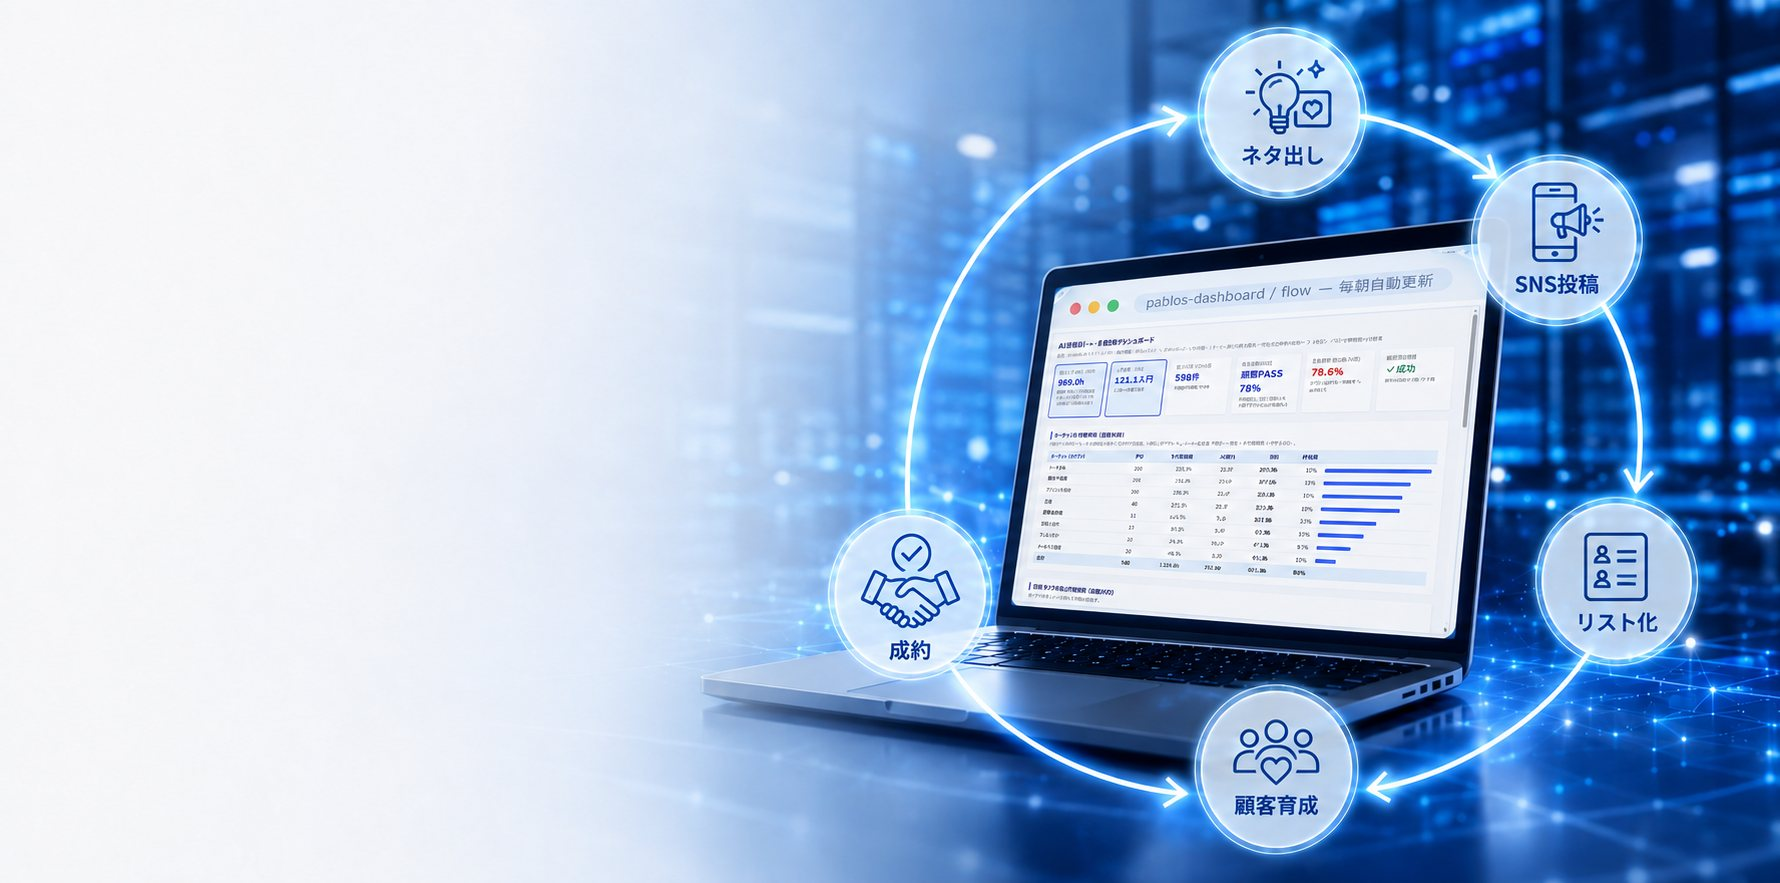
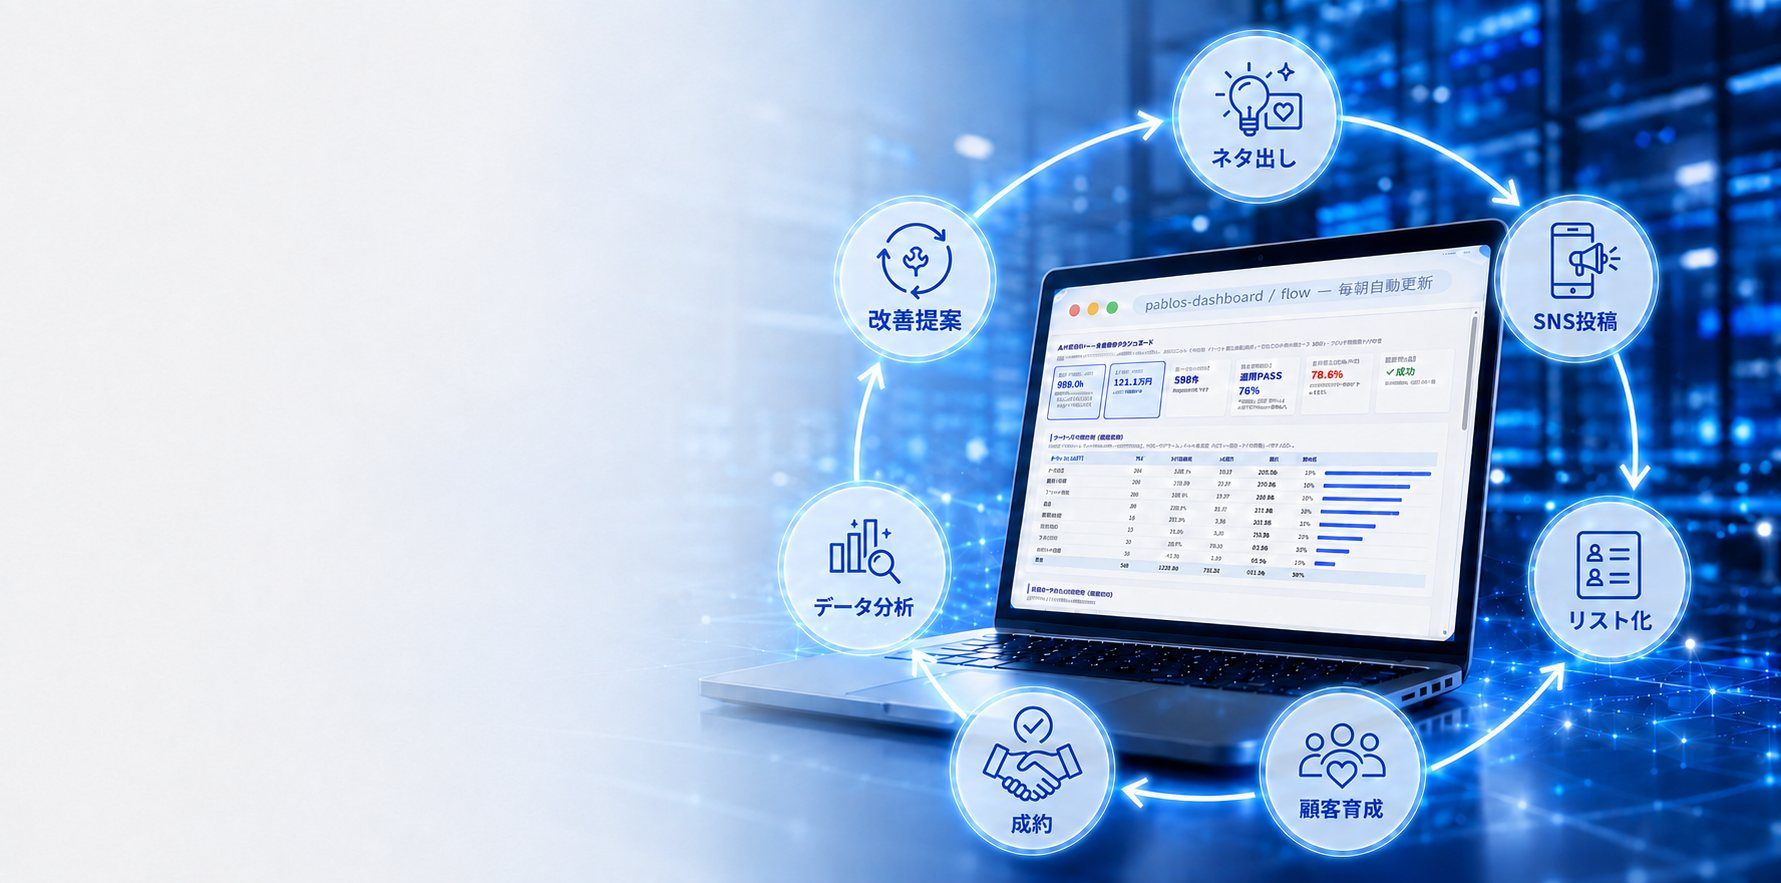
ヒーロー画像を7アイコン版（分析・改善提案入りサイクル）に差し替え、コピーを7ステップ表記に統一

diff --git a/r/a97c30d5f2/index.html b/r/a97c30d5f2/index.html
@@ -248,12 +248,12 @@
       <h1>SNS投稿から成約まで、<br>改善を止めない<span class="accent">ワンストップ運用</span>へ。</h1>
       <p class="lead">AI×SNS発信・リスト化・顧客育成 実装説明会</p>
       <p class="sub">
-        ネタ出し・投稿・リスト化・顧客育成・成約を、AIとの分業で改善し続ける仕組みへ。<br>
-        「ひとりで全部やる」毎日が変わる設計図を、60分でご覧いただけます。
+        ネタ出しから投稿、リスト化、顧客育成、成約、そして分析・改善まで。<br>
+        7つの仕事をAIとの分業で回し続ける設計図を、60分でご覧いただけます。
       </p>
-      <img class="hero-mimg" src="assets/hero.jpg" alt="ネタ出しからSNS投稿・リスト化・顧客育成・成約までのワンストップ運用サイクル">
+      <img class="hero-mimg" src="assets/hero.jpg" alt="ネタ出し→SNS投稿→リスト化→顧客育成→成約→データ分析→改善提案のワンストップ運用サイクル">
       <div class="hero-cards">
-        <div class="hero-card"><div class="t">対応領域</div><div class="v">ネタ出し・SNS投稿・リスト化<br>顧客育成・成約</div></div>
+        <div class="hero-card"><div class="t">対応領域（7ステップ）</div><div class="v">ネタ出し・SNS投稿・リスト化・顧客育成<br>成約・データ分析・改善提案</div></div>
         <div class="hero-card"><div class="t">発信業務（30日実測）</div><div class="v"><b>約88%</b> 削減※</div></div>
       </div>
       <a class="cta-btn" href="#cta">無料説明会で実画面とライブデモを見る →</a>
